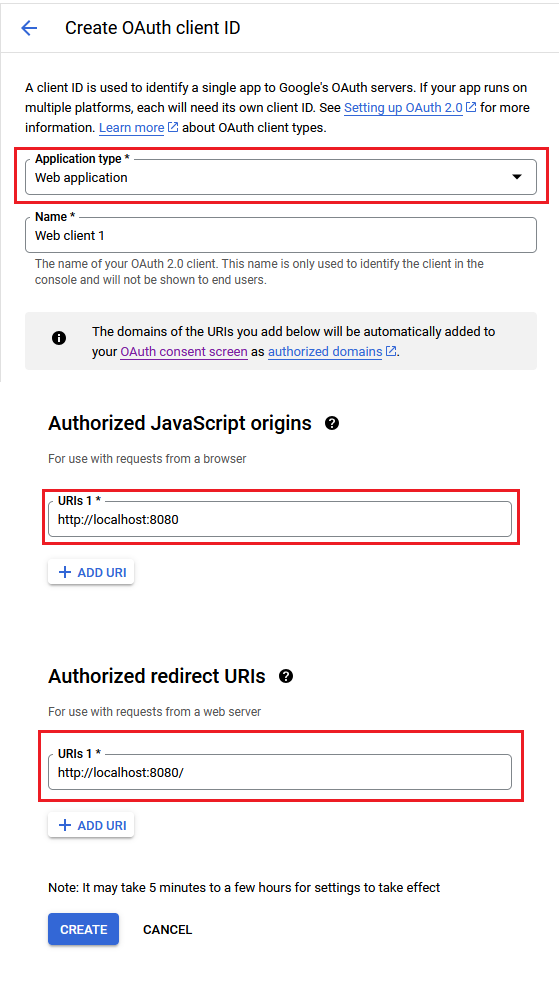
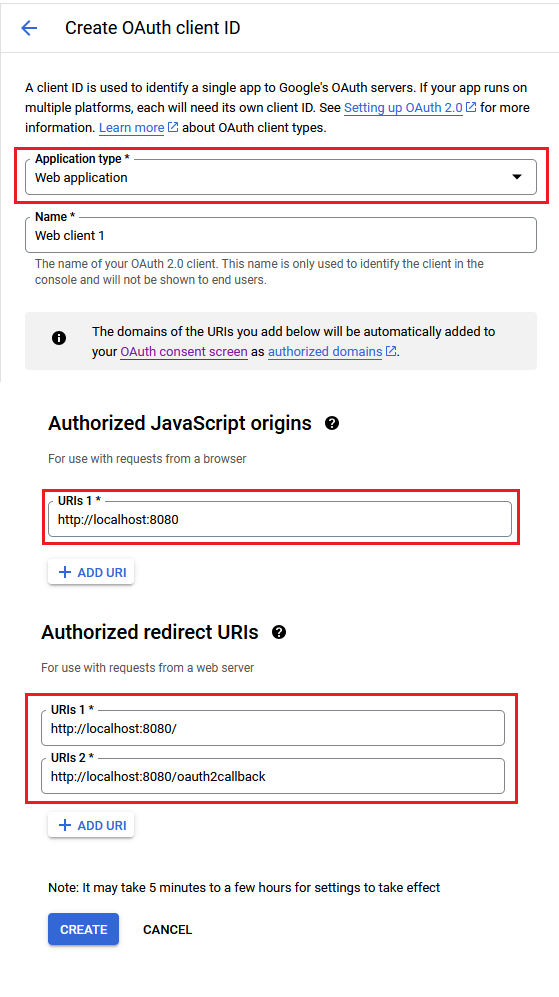
fixed oauth2 issue

Changed region(s): [[0.0304, 0.6219, 0.9428, 0.8084]]

diff --git a/source/app.py b/source/app.py
@@ -10,6 +10,8 @@ app = Flask(__name__)
 app.secret_key = 'your_secret_key'  # Replace with your secret key
 app.config['SERVER_NAME'] = 'localhost:8080'
 
+os.environ['OAUTHLIB_INSECURE_TRANSPORT'] = '1'
+
 SCOPES = ['https://www.googleapis.com/auth/gmail.readonly']
 CLIENT_SECRETS_FILE = get_credentials_path()
 
